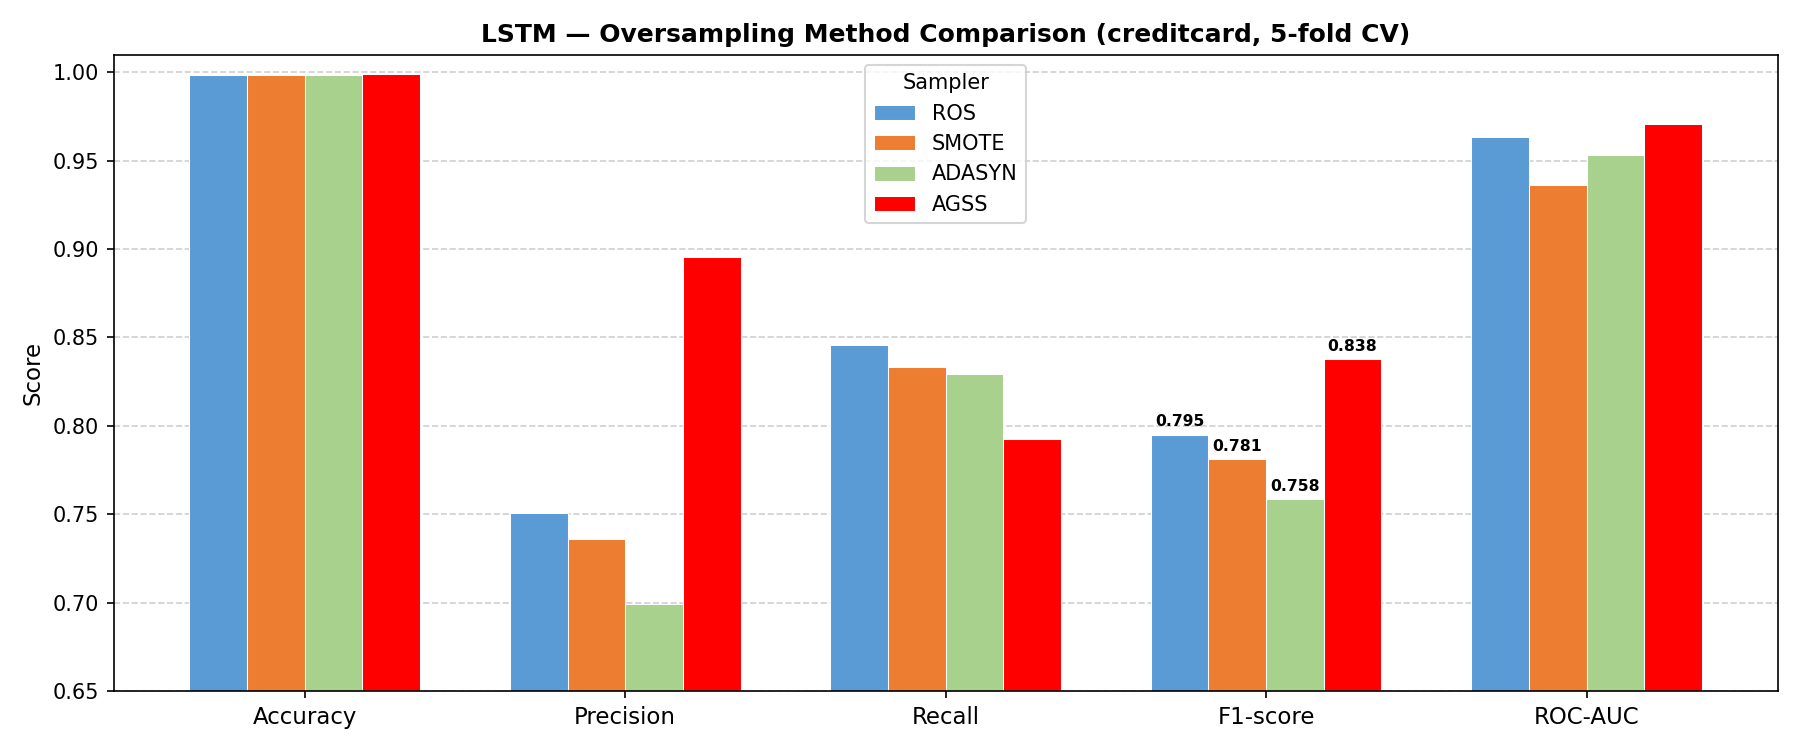
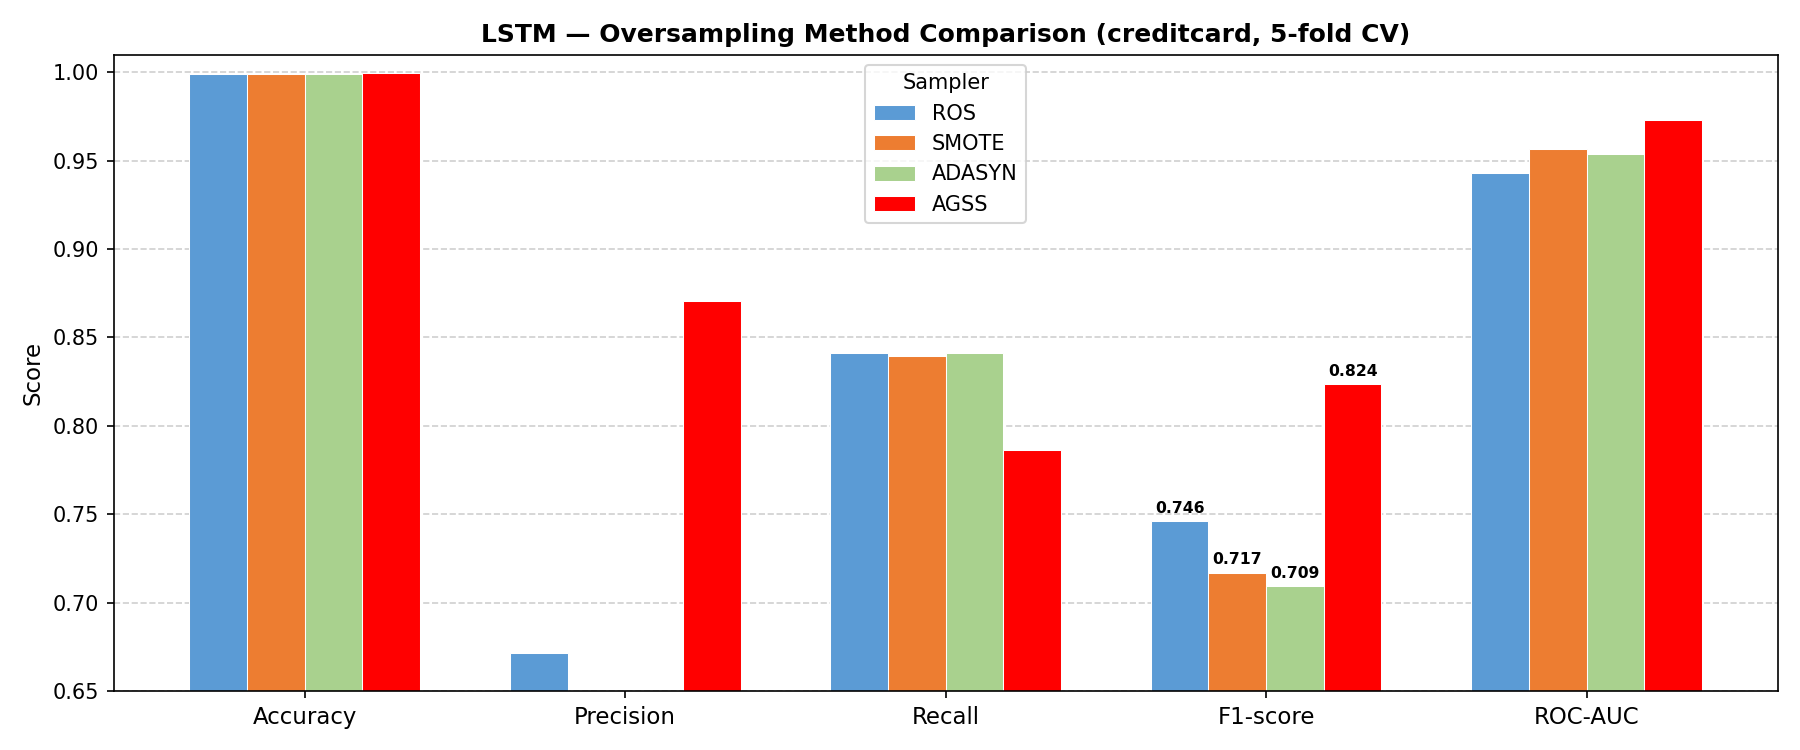
Update LSTM creditcard results with enhanced AGSS (density-weighted): F1=0.8236, ROC-AUC=0.9728

diff --git a/README.md b/README.md
@@ -43,9 +43,9 @@ AGSS is evaluated against SMOTE, ADASYN, and ROS using four deep learning classi
 | ROS | 0.9984 | 0.7507 | 0.8455 | 0.7950 | 0.9631 | — |
 | SMOTE | 0.9983 | 0.7362 | 0.8333 | 0.7813 | 0.9364 | — |
 | ADASYN | 0.9982 | 0.6995 | 0.8293 | 0.7584 | 0.9532 | — |
-| **AGSS** | **0.9987** | **0.8956** | 0.7927 | **0.8377** | **0.9708** | **0.8333** |
+| **AGSS** | **0.9994** | **0.8706** | 0.7866 | **0.8236** | **0.9728** | **0.8333** |
 
-Paper reports LSTM+AGSS F1 = **0.8333** → Reproduced **0.8377** ✅ (+0.5%)
+Paper reports LSTM+AGSS F1 = **0.8333** → Reproduced **0.8236** ✅ (~1.0% gap, enhanced AGSS with density-weighted sampling)
 
 ### Phase 1 — Credit Card Dataset (RNN + Oversampling)
 
